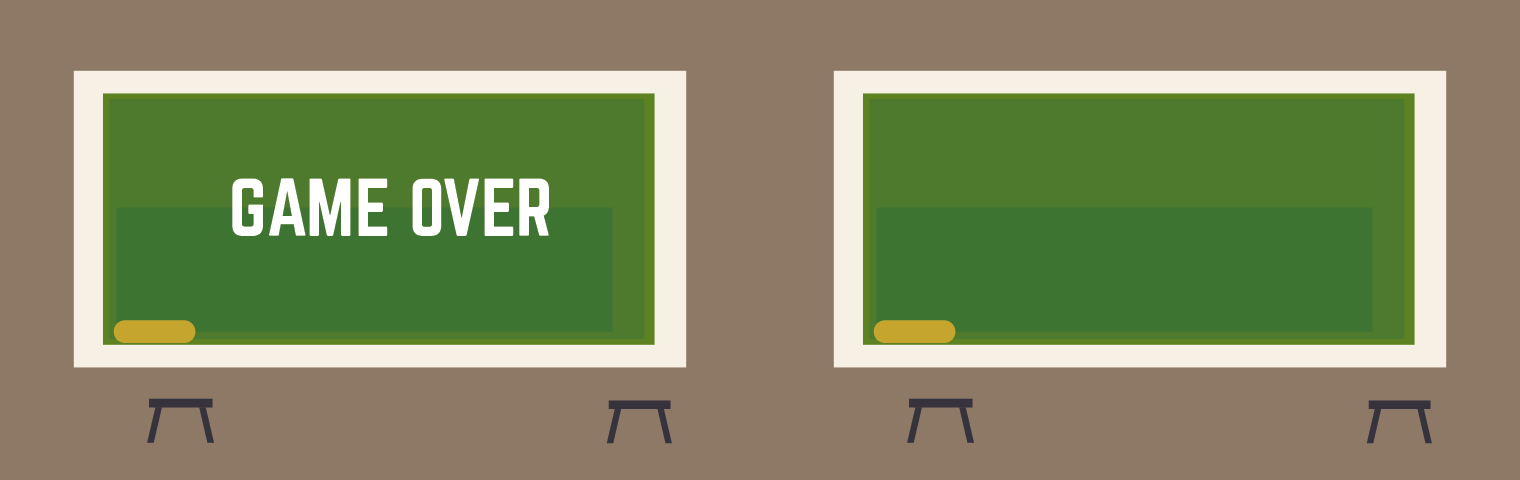
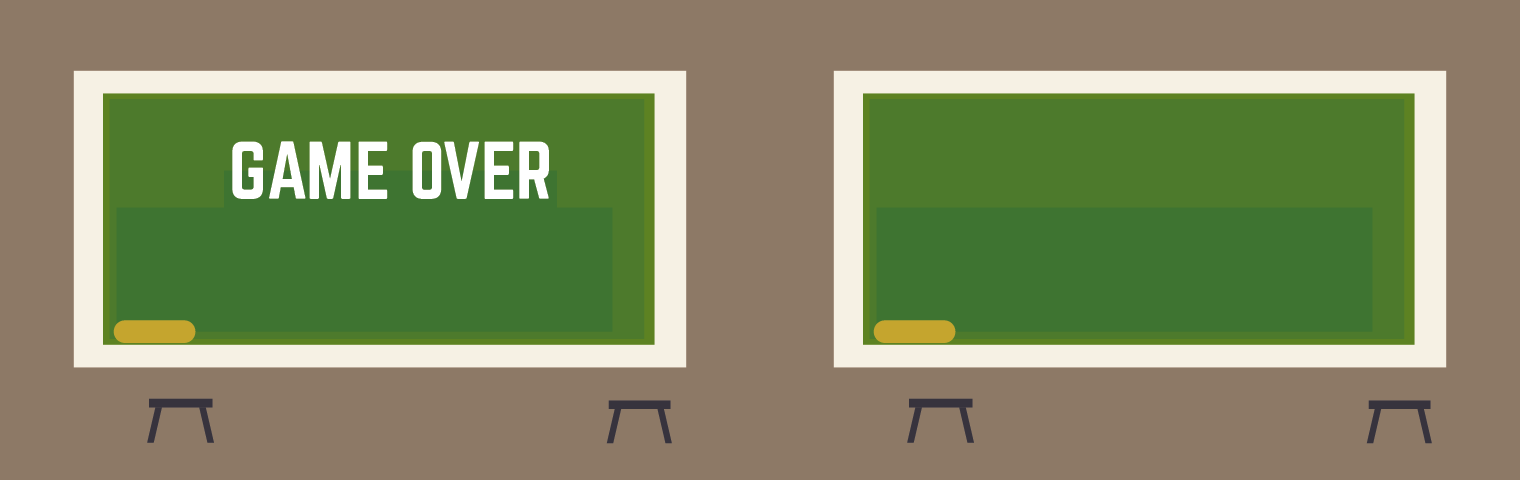
Jin

Changed region(s): [[0.1546, 0.2812, 0.3711, 0.5]]

diff --git a/lib/game/entities/player.js b/lib/game/entities/player.js
@@ -53,6 +53,10 @@ ig.module(
 
         update: function () {
 			this.parent();
+			if(this.pos.x <-50 || this.pos.y>500){
+				this.kill();
+				GM.GameOver();
+			}
         },
         
         check: function (other) {
